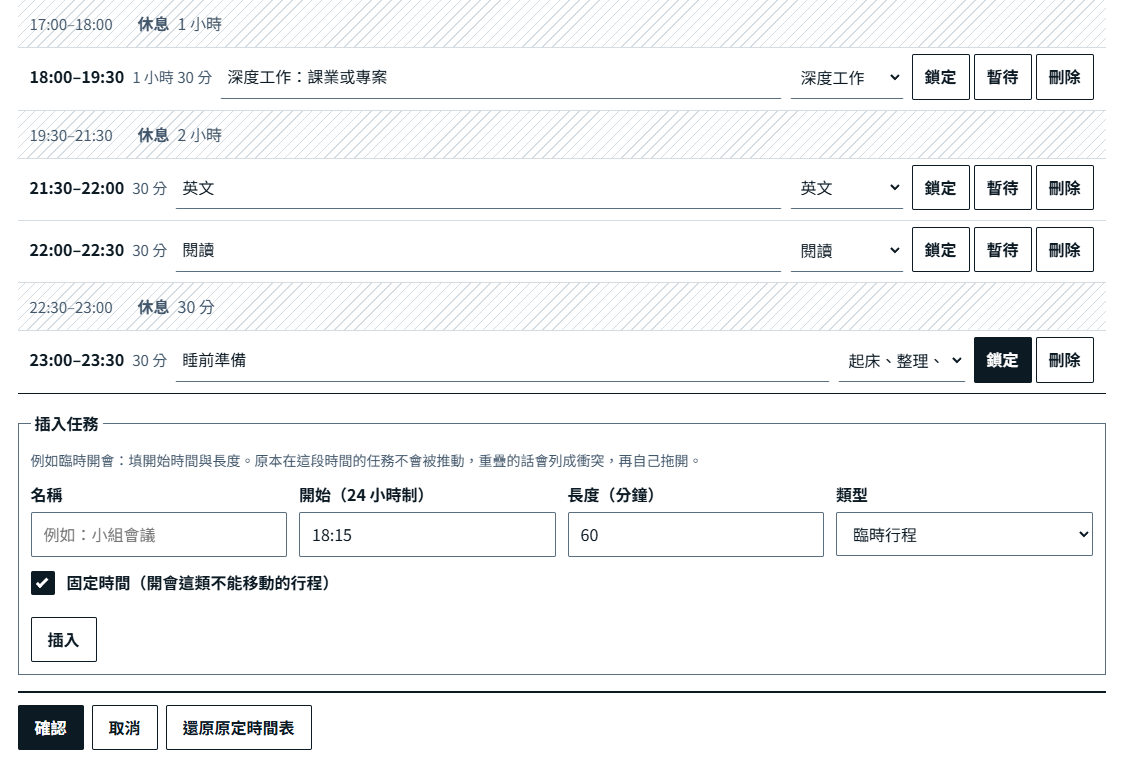
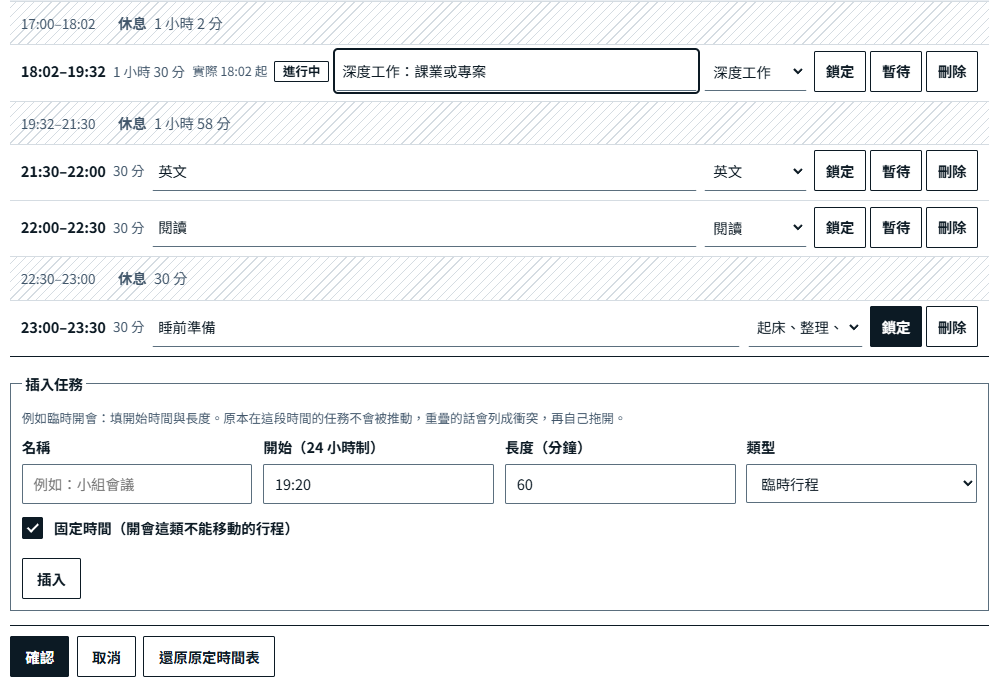
content: update project-momentum screenshots and layout

diff --git a/content/projects/en/project-momentum.md b/content/projects/en/project-momentum.md
@@ -8,7 +8,7 @@ The timetable follows my own routine (classes, deep work, English, reading, exer
 
 ### Origin and Motivation
 
-After being worn down by graduate admission interviews, I realized there was still a real gap between where I was and where I wanted to be. It also sent me back to an idea from *Atomic Habits*: rather than relying on willpower alone, building a system and environment that suit you may be what keeps you acting over the long run.
+After being worn down by graduate admission interviews, I realized there was still a real gap between where I was and where I wanted to be. It also sent me back to an idea from _Atomic Habits_: rather than relying on willpower alone, building a system and environment that suit you may be what keeps you acting over the long run.
 
 Since I tend to work best in long, uninterrupted stretches, I designed Project Momentum as a personal time management system built around deep work. Planning each day's tasks in advance sets a steady rhythm, while tasks and breaks stay adjustable, so the plan can bend to how the day actually goes instead of locking me into a rigid timetable.
 
@@ -26,12 +26,12 @@ Project Momentum isn't just a to-do list. It's a personal time management system
 
 ## Screens
 
-| Screen    | Contents                                                                                                                                         |
-| --------- | ------------------------------------------------------------------------------------------------------------------------------------------------ |
+| Screen    | Contents                                                                                                                                                                   |
+| --------- | -------------------------------------------------------------------------------------------------------------------------------------------------------------------------- |
 | Today     | Current block, progress bar, and the full-day timetable; tasks can be started and ended with actual times recorded; drag to adjust the day; a recovery mode for tired days |
-| This Week | Days each habit was completed this week, and time spent per category per day                                                                    |
-| Review    | Fixed weekly review questions, with backup export and import                                                                                    |
-| Terms     | What each block name means, and what to keep or drop when time runs short                                                                       |
+| This Week | Days each habit was completed this week, and time spent per category per day                                                                                               |
+| Review    | Fixed weekly review questions, with backup export and import                                                                                                               |
+| Terms     | What each block name means, and what to keep or drop when time runs short                                                                                                  |
 
 ### Today: What to Do Now
 
@@ -41,7 +41,7 @@ Project Momentum isn't just a to-do list. It's a personal time management system
 </figure>
 
 <figure>
-  <img src="/images/projects/project-momentum/today-schedule.png" width="1127" height="760" alt="Bottom of the Today page: the full-day timetable highlighting the in-progress block and its actual start time, with a recovery mode toggle, today's goals (fixed wake and bed time: met; deep work: in progress), and a notes box for today's output and progress" style="display: block; margin: 0 auto; max-width: 100%; height: auto;" />
+  <img src="/images/projects/project-momentum/today-schedule.png" width="1125" height="805" alt="Bottom of the Today page: the full-day timetable highlighting the in-progress block and its actual start time, with a recovery mode toggle, today's goals (fixed wake and bed time: met; deep work: in progress), and a notes box for today's output and progress" style="display: block; margin: 0 auto; max-width: 100%; height: auto;" />
   <figcaption style="text-align: center;">The full-day timetable, recovery mode, today's goals, and progress notes</figcaption>
 </figure>
 
@@ -50,12 +50,12 @@ Project Momentum isn't just a to-do list. It's a personal time management system
 On the timeline, drag a task to move it or drag its right edge to change its length, in 5-minute steps; the keyboard works too. Fixed blocks such as classes and commutes have dashed borders and can't be moved. Tasks can be dragged over each other, and overlaps are listed as conflicts that must all be resolved before confirming.
 
 <figure>
-  <img src="/images/projects/project-momentum/timeline-conflict.png" width="1012" height="873" alt="English and reading overlap on the timeline, with reading pushed to a second row and outlined in red; the conflicts box shows 1 conflict, English and reading overlapping 21:40–22:00 (20 min), and both tasks in the list below are marked as overlapping" style="display: block; margin: 0 auto; max-width: 100%; height: auto;" />
+  <img src="/images/projects/project-momentum/timeline-conflict.png" width="1005" height="878" alt="English and reading overlap on the timeline, with reading pushed to a second row and outlined in red; the conflicts box shows 1 conflict, English and reading overlapping 21:40–22:00 (20 min), and both tasks in the list below are marked as overlapping" style="display: block; margin: 0 auto; max-width: 100%; height: auto;" />
   <figcaption style="text-align: center;">When tasks overlap: the timeline splits into two rows, and the conflicts box lists each overlap with its time and length; selecting an item focuses that task so it can be moved off with the arrow keys</figcaption>
 </figure>
 
 <figure>
-  <img src="/images/projects/project-momentum/insert-task.png" width="1129" height="766" alt="Insert task form: name, start time (24-hour), length in minutes, type, and a fixed-time checkbox" style="display: block; margin: 0 auto; max-width: 100%; height: auto;" />
+  <img src="/images/projects/project-momentum/insert-task.png" width="1000" height="692" alt="Insert task form: name, start time (24-hour), length in minutes, type, and a fixed-time checkbox" style="display: block; margin: 0 auto; max-width: 100%; height: auto;" />
   <figcaption style="text-align: center;">Inserting an ad-hoc task: existing tasks aren't pushed back; overlaps are listed as conflicts to drag apart by hand</figcaption>
 </figure>
 
@@ -74,7 +74,7 @@ On the timeline, drag a task to move it or drag its right edge to change its len
 ### Review: Fixed Weekly Questions
 
 <figure>
-  <img src="/images/projects/project-momentum/weekly-review.png" width="754" height="940" alt="Weekly review page: six fixed questions, each with a text box, such as what the side project achieved this week, the most important deliverable next week, and which habits worked or didn't; export and import JSON backup buttons at the bottom" style="display: block; margin: 0 auto; width: 100%; height: auto;" />
+  <img src="/images/projects/project-momentum/weekly-review.png" width="754" height="940" alt="Weekly review page: six fixed questions, each with a text box, such as what the side project achieved this week, the most important deliverable next week, and which habits worked or didn't; export and import JSON backup buttons at the bottom" style="display: block; margin: 0 auto; width: 90%; height: auto;" />
   <figcaption style="text-align: center;">Six fixed review questions, saved automatically, with JSON backup export and import</figcaption>
 </figure>
 

diff --git a/content/projects/zh/project-momentum.md b/content/projects/zh/project-momentum.md
@@ -41,7 +41,7 @@ Project Momentum 並非單純的待辦事項清單，而是以時間區塊為基
 </figure>
 
 <figure>
-  <img src="/images/projects/project-momentum/today-schedule.png" width="1127" height="760" alt="今天頁下方：整天的時間表標出進行中的時段與實際開始時間，右側為恢復模式開關、今日達標（固定時間起床與睡覺：達標；深度工作：進行中）與今日產出與進度筆記欄" style="display: block; margin: 0 auto; max-width: 100%; height: auto;" />
+  <img src="/images/projects/project-momentum/today-schedule.png" width="1125" height="805" alt="今天頁下方：整天的時間表標出進行中的時段與實際開始時間，右側為恢復模式開關、今日達標（固定時間起床與睡覺：達標；深度工作：進行中）與今日產出與進度筆記欄" style="display: block; margin: 0 auto; max-width: 100%; height: auto;" />
   <figcaption style="text-align: center;">整天的時間表、恢復模式、今日達標與進度筆記</figcaption>
 </figure>
 
@@ -50,12 +50,12 @@ Project Momentum 並非單純的待辦事項清單，而是以時間區塊為基
 在時間條上按住任務左右拖是移動，拖右邊緣是改長度，一格 5 分鐘；也可以用鍵盤調整。上課、通勤這類固定時段以虛線框標出，不能拖動。任務可以拖過或蓋過別的任務，重疊的部分會列成衝突，全部解開才能確認。
 
 <figure>
-  <img src="/images/projects/project-momentum/timeline-conflict.png" width="1012" height="873" alt="時間條上英文與閱讀重疊，閱讀被排到下面一排並以紅框標出；衝突區顯示 1 個衝突「英文和閱讀重疊 21:40–22:00（20 分）」，下方列表中兩個任務都標上重疊" style="display: block; margin: 0 auto; max-width: 100%; height: auto;" />
+  <img src="/images/projects/project-momentum/timeline-conflict.png" width="1005" height="878" alt="時間條上英文與閱讀重疊，閱讀被排到下面一排並以紅框標出；衝突區顯示 1 個衝突「英文和閱讀重疊 21:40–22:00（20 分）」，下方列表中兩個任務都標上重疊" style="display: block; margin: 0 auto; max-width: 100%; height: auto;" />
   <figcaption style="text-align: center;">任務重疊時：時間條分成上下兩排，衝突區列出重疊的時段與長度，點選項目會選到那個任務，可以直接用方向鍵移開</figcaption>
 </figure>
 
 <figure>
-  <img src="/images/projects/project-momentum/insert-task.png" width="1129" height="766" alt="插入任務表單：名稱、開始時間（24 小時制）、長度（分鐘）、類型，以及固定時間勾選框" style="display: block; margin: 0 auto; max-width: 100%; height: auto;" />
+  <img src="/images/projects/project-momentum/insert-task.png" width="1000" height="692" alt="插入任務表單：名稱、開始時間（24 小時制）、長度（分鐘）、類型，以及固定時間勾選框" style="display: block; margin: 0 auto; max-width: 100%; height: auto;" />
   <figcaption style="text-align: center;">插入臨時任務：原本的任務不會被推動，重疊的話列成衝突再自己拖開</figcaption>
 </figure>
 
@@ -74,7 +74,7 @@ Project Momentum 並非單純的待辦事項清單，而是以時間區塊為基
 ### 回顧：每週固定問題
 
 <figure>
-  <img src="/images/projects/project-momentum/weekly-review.png" width="754" height="940" alt="每週回顧頁：六個固定問題各有一個輸入框，例如本週自主專案完成了什麼、下週最重要的一項交付成果、哪些習慣做得到或做不到，最下方是匯出 JSON 與匯入 JSON 的備份按鈕" style="display: block; margin: 0 auto; width: 100%; height: auto;" />
+  <img src="/images/projects/project-momentum/weekly-review.png" width="754" height="940" alt="每週回顧頁：六個固定問題各有一個輸入框，例如本週自主專案完成了什麼、下週最重要的一項交付成果、哪些習慣做得到或做不到，最下方是匯出 JSON 與匯入 JSON 的備份按鈕" style="display: block; margin: 0 auto; width: 90%; height: auto;" />
   <figcaption style="text-align: center;">六個固定的回顧問題，內容自動儲存；也可以匯出或匯入 JSON 備份</figcaption>
 </figure>
 
